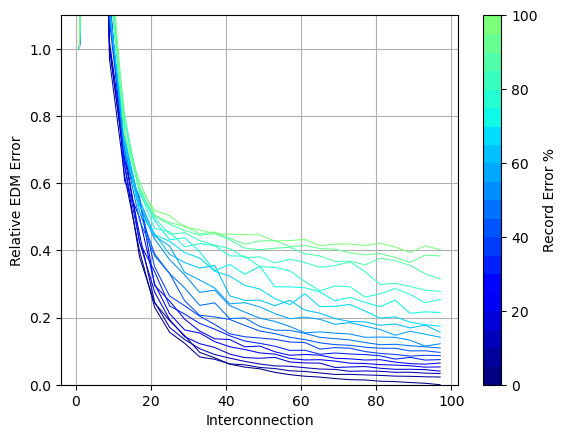
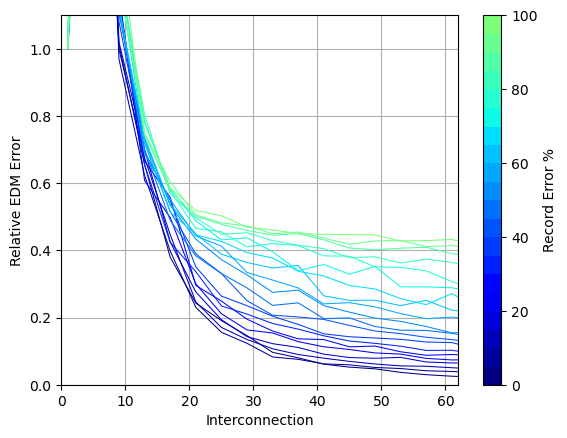
Updated figures

diff --git a/reconstruct_script_perf_analysis/display_test.py b/reconstruct_script_perf_analysis/display_test.py
@@ -7,6 +7,7 @@ import sys
 import scipy.io
 import matplotlib.pyplot as plt
 from matplotlib import cm
+import matplotlib.colors
 
 intercon_start = 1
 intercon_end = 98
@@ -20,6 +21,10 @@ error_axis = np.arange(error_start, error_end, error_step)
 
 X, Y = np.meshgrid(intercon_axis, error_axis)
 
+colors = plt.cm.jet(np.linspace(0,0.5,20))
+cmap= matplotlib.colors.ListedColormap(colors)
+norm= matplotlib.colors.Normalize(vmin=0,vmax=100)
+
 target_path = os.path.join(os.path.dirname(os.path.abspath(__file__)), "Data", "z_inter_1_98_4_err_0_101_4_edm_rel_1")
 
 Z = scipy.io.loadmat(target_path)
@@ -32,12 +37,15 @@ ax = plt.axes()
 for i in range(20):
     
     zs = Z[i, :]
-    if(i % 2 == 0):
-        plt.plot(intercon_axis, zs, color="royalblue", alpha=(1-0.05*i), linewidth=0.75)
+    if(i % 1 == 0):
+        plt.plot(intercon_axis, zs, color=colors[i], linewidth=0.75)
 
 ax.set_ylim([0, 1.1])
+ax.set_xlim([0, 62])
 ax.set_xlabel('Interconnection')
 ax.set_ylabel('Relative EDM Error')
+fig.colorbar(cm.ScalarMappable(norm=norm, cmap=cmap),
+              label='Record Error %')
 plt.grid()
 plt.savefig('./reconstruct_script_perf_analysis/Figures/inter_err_line.png', bbox_inches='tight')
 
@@ -70,12 +78,15 @@ ax = plt.axes()
 for i in range(20):
     
     zs = Z[i, :]
-    if(i % 2 == 0):
-        plt.plot(intercon_axis, zs, color="royalblue", alpha=(1-0.05*i), linewidth=0.75)
+    if(i % 1 == 0):
+        plt.plot(intercon_axis, zs, color=colors[i], linewidth=0.75)
 
 ax.set_ylim([0, 1.1])
+ax.set_xlim([0, 62])
 ax.set_xlabel('Interconnection')
 ax.set_ylabel('Relative EDM Error')
+fig.colorbar(cm.ScalarMappable(norm=norm, cmap=cmap),
+              label='Measurement Noise %')
 plt.grid()
 plt.savefig('./reconstruct_script_perf_analysis/Figures/inter_noi_line.png', bbox_inches='tight')
 
